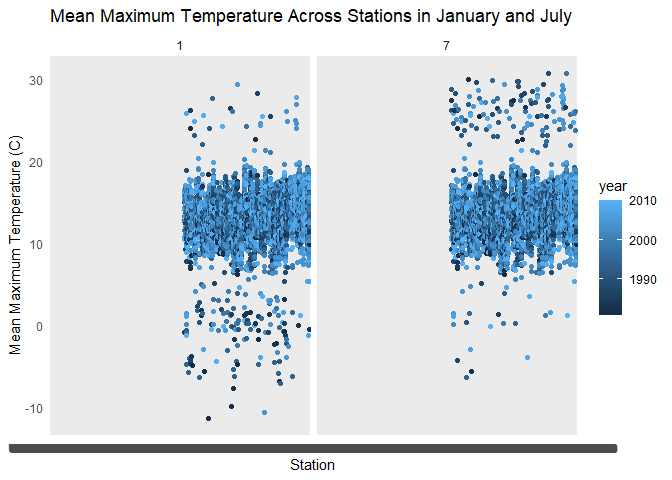
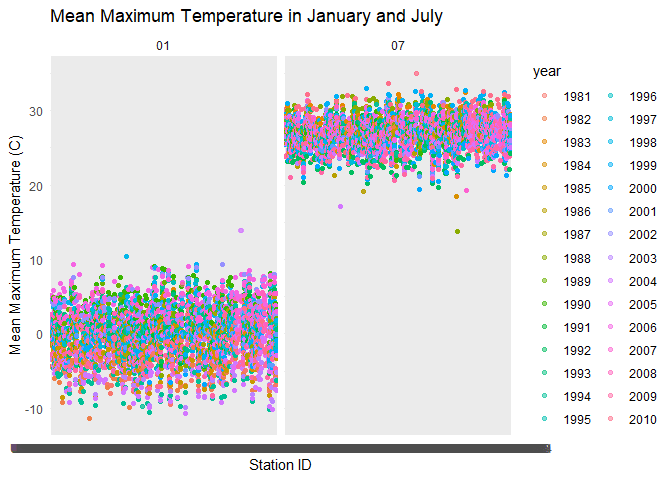
submit

diff --git a/p8015_hw3_sk5538.md b/p8015_hw3_sk5538.md
@@ -23,12 +23,10 @@ p1_df = ny_noaa
 
 ``` r
 p1_df = p1_df|>
+   separate(date, into = c("year", "month", "day"), sep = "-")|>
   mutate(
-    year = year(date),
-    month = month(date),
-    day = day(date),
-    tmax = as.numeric(tmax),
-    tmin = as.numeric(tmin)
+    tmax = (as.numeric(tmax))/10,
+    tmin = (as.numeric(tmin))/10
   )
 ```
 
@@ -43,34 +41,6 @@ summary_list = list(
 )
 summary_list
 ```
-
-    ## $tmax
-    ##    Min. 1st Qu.  Median    Mean 3rd Qu.    Max. 
-    ##  -389.0    50.0   150.0   139.8   233.0   600.0 
-    ## 
-    ## $tmin
-    ##    Min. 1st Qu.  Median    Mean 3rd Qu.    Max. 
-    ## -594.00  -39.00   33.00   30.29  111.00  600.00 
-    ## 
-    ## $prcp
-    ##     Min.  1st Qu.   Median     Mean  3rd Qu.     Max. 
-    ##     0.00     0.00     0.00    29.82    23.00 22860.00 
-    ## 
-    ## $snow
-    ##      Min.   1st Qu.    Median      Mean   3rd Qu.      Max. 
-    ##   -13.000     0.000     0.000     4.987     0.000 10160.000
-
-``` r
-sum(p1_df[["prcp"]] == 0, na.rm = TRUE)
-```
-
-    ## [1] 1471511
-
-``` r
-sum(p1_df[["snow"]] == 0, na.rm = TRUE)
-```
-
-    ## [1] 2008508
 
 ###### For snowfall, what are the most commonly observed values? Why?
 
@@ -93,46 +63,56 @@ head(snow_mode,5)
     ## 5    51   18274
 
 The most commonly observed value was 0 since it is common for most days
-to not have any snow.
+to not have any snow. Followed by 0s and NA’s, the most common values
+were 25, 13, and 51, in that order.
 
 ###### Make a two-panel plot showing the average max temperature in January and in July in each station across years. Is there any observable / interpretable structure? Any outliers?
 
 ``` r
-p1_df|>
-  filter(month == c(1,7))|>
-  group_by(id, year) |>
+p1_df |> 
+  filter(month == c("01", "07")) |>
+  drop_na(tmax, tmin) |>
+  group_by(id, month, year) |> 
   mutate(
-    tmax = tmax/10,
-    tmin = tmin/10,
     mean_tmax = mean(tmax, na.rm = TRUE)
   ) |> 
   ggplot(aes(x = id, y = mean_tmax, color = year)) + 
   geom_point(aes(group = year), alpha = 0.5) +
   facet_grid(~month) +
   labs(
-    title = "Mean Maximum Temperature Across Stations in January and July",
-    x = "Station",
+    title = "Mean Maximum Temperature in January and July",
+    x = "Station ID",
     y = "Mean Maximum Temperature (C)"
 ) +
   theme_minimal()
 ```
 
-    ## Warning: Removed 92005 rows containing missing values or values outside the scale range
-    ## (`geom_point()`).
-
-![](p8015_hw3_sk5538_files/figure-gfm/unnamed-chunk-6-1.png)<!-- -->
+![](p8015_hw3_sk5538_files/figure-gfm/unnamed-chunk-6-1.png)<!-- --> The
+mean maximum temperature of January clusteredd around a lower range
+(-10C to 10C) compared to that of July (15C-35C). There were a few
+stations that observed a warmer maximum temperatures in January, and
+colder maximum temperatures in July.
 
 ###### Make a two-panel plot showing (i) tmax vs tmin for the full dataset (note that a scatterplot may not be the best option); and (ii) make a plot showing the distribution of snowfall values greater than 0 and less than 100 separately by year.
 
 ``` r
-p1_df |> 
+tmax_tmin = p1_df |> 
+  ggplot(aes(x = tmin, y = tmax)) +
+  geom_hex()
+
+snow_dist = p1_df |> 
   filter(snow > 0, snow < 100) |> 
   ggplot(aes(x = snow, y = factor(year))) +
   geom_density_ridges() +
   labs(
     title = "Disribution of snow by year"
   )
+
+tmax_tmin + snow_dist
 ```
+
+    ## Warning: Removed 1136276 rows containing non-finite outside the scale range
+    ## (`stat_binhex()`).
 
     ## Picking joint bandwidth of 3.76
 
@@ -389,20 +369,31 @@ end_station_name, member_casual, date
 citibike_df |>
   group_by(date, member_casual) |> 
   summarise(total_rides = n()) |> 
-  pivot_wider(names_from = member_casual, values_from = total_rides, values_fill = 0)
+  pivot_wider(names_from = member_casual, values_from = total_rides, values_fill = 0)|>
+  knitr::kable(
+    caption = "member type by combination of year and month"
+  ) 
 ```
 
     ## `summarise()` has grouped output by 'date'. You can override using the
     ## `.groups` argument.
 
-    ## # A tibble: 4 × 3
-    ## # Groups:   date [4]
-    ##   date     casual member
-    ##   <chr>     <int>  <int>
-    ## 1 Jan 2020    984  11436
-    ## 2 Jan 2024   2108  16753
-    ## 3 Jul 2020   5637  15411
-    ## 4 Jul 2024  10894  36262
+| date     | casual | member |
+|:---------|-------:|-------:|
+| Jan 2020 |    984 |  11436 |
+| Jan 2024 |   2108 |  16753 |
+| Jul 2020 |   5637 |  15411 |
+| Jul 2024 |  10894 |  36262 |
+
+member type by combination of year and month
+
+There are more member riders than casual riders in all of the dates
+provided, despite a substantial increase in the number of casual riders
+from January 2020 to July 2024. From July 2024 to January 2020, number
+of casual riders decreased, while that of members increased. However,
+the total number of riders increased from January 2020 to 2024. July
+2024 had the most number of both casual and member rides, likely due to
+warmer weather.
 
 ###### Make a table showing the 5 most popular starting stations for July 2024; include the number of rides originating from these stations.
 
@@ -412,17 +403,21 @@ citibike_df |>
   group_by(start_station_name) |>
   summarise(number_of_rides = n()) |>
   arrange(desc(number_of_rides)) |>
-  slice_head(n = 5)
+  slice_head(n = 5)|>
+  knitr::kable(
+    caption = "number of rides of each start station"
+  ) 
 ```
 
-    ## # A tibble: 5 × 2
-    ##   start_station_name       number_of_rides
-    ##   <chr>                              <int>
-    ## 1 Pier 61 at Chelsea Piers             163
-    ## 2 University Pl & E 14 St              155
-    ## 3 W 21 St & 6 Ave                      152
-    ## 4 West St & Chambers St                150
-    ## 5 W 31 St & 7 Ave                      146
+| start_station_name       | number_of_rides |
+|:-------------------------|----------------:|
+| Pier 61 at Chelsea Piers |             163 |
+| University Pl & E 14 St  |             155 |
+| W 21 St & 6 Ave          |             152 |
+| West St & Chambers St    |             150 |
+| W 31 St & 7 Ave          |             146 |
+
+number of rides of each start station
 
 ###### Make a plot to investigate the effects of day of the week, month, and year on median ride duration. This plot can include one or more panels, but should facilitate comparison across all variables of interest. Comment on your observations from this plot.
 
